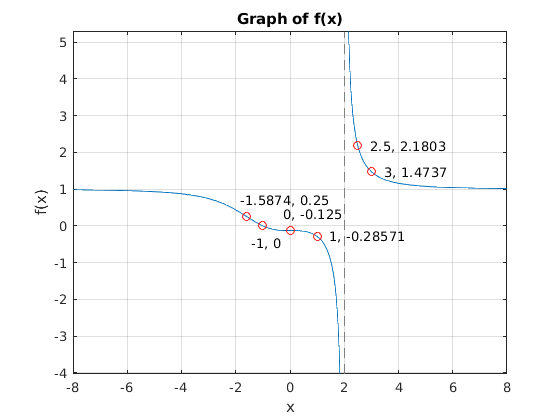
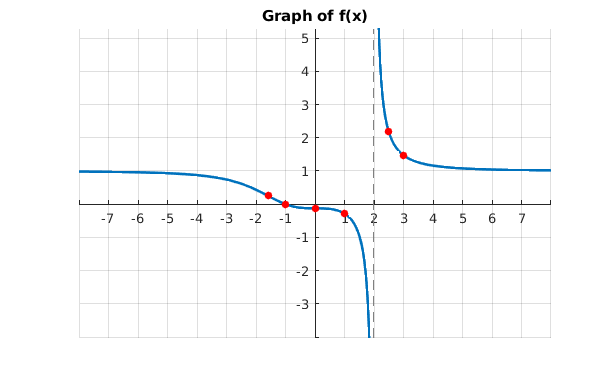
optimized code

diff --git a/Year I/Semester I/Calculus/applicationOfDerivatives/problemSet43/asymptoteExample/main.m b/Year I/Semester I/Calculus/applicationOfDerivatives/problemSet43/asymptoteExample/main.m
@@ -16,28 +16,22 @@ inflectionPoints = solve(f_double_dash, 'Real', true)
 otherPoints = solve(f, 'Real', true)
 miscPoints = [1; 2.5; 3]
 
-fplot(f, [-8 8])
+allPoints = [criticalPoints; inflectionPoints; otherPoints; miscPoints];
+
+fh = fplot(f, [-8 8]);
+fh.LineWidth = 2;
 hold on
 grid on
+box off
 title('Graph of f(x)')
-xlabel('x')
-ylabel('f(x)')
-plot(double(inflectionPoints), double(subs(f,inflectionPoints)),'ro')
-plot(double(otherPoints), double(subs(f, otherPoints)), 'ro')
-plot(double(miscPoints), double(subs(f, miscPoints)), 'ro')
-for i = (1:length(miscPoints))
-    text(miscPoints(i) + 0.45, subs(f, miscPoints(i)), ...
-        string(double(miscPoints(i))) + ', ' ...
-        + string(double(subs(f, miscPoints(i))))) 
+for i = 1:length(allPoints)      
+    temp1 = allPoints(i);
+    for j = 1:length(allPoints(i))
+        temp2 = temp1(j);
+        plot(double(temp2), double(subs(f,temp2)),'r.', 'MarkerSize', 20)
+    end
 end
-for i = (1:length(otherPoints))
-    text(otherPoints(i) - 0.45, subs(f, inflectionPoints(i)) - 0.35, ...
-        string(double(otherPoints(i))) + ', ' ...
-        + string(double(subs(f, otherPoints(i))))) 
-end
-for i = (1:length(inflectionPoints))
-    text(inflectionPoints(i) - 0.25, subs(f, inflectionPoints(i)) + 0.45, ...
-        string(double(inflectionPoints(i))) + ', ' ... 
-        + string(double(subs(f, inflectionPoints(i)))))
-end
+ax = gca;
+ax.XAxisLocation = 'origin';
+ax.YAxisLocation = 'origin';
 hold off
